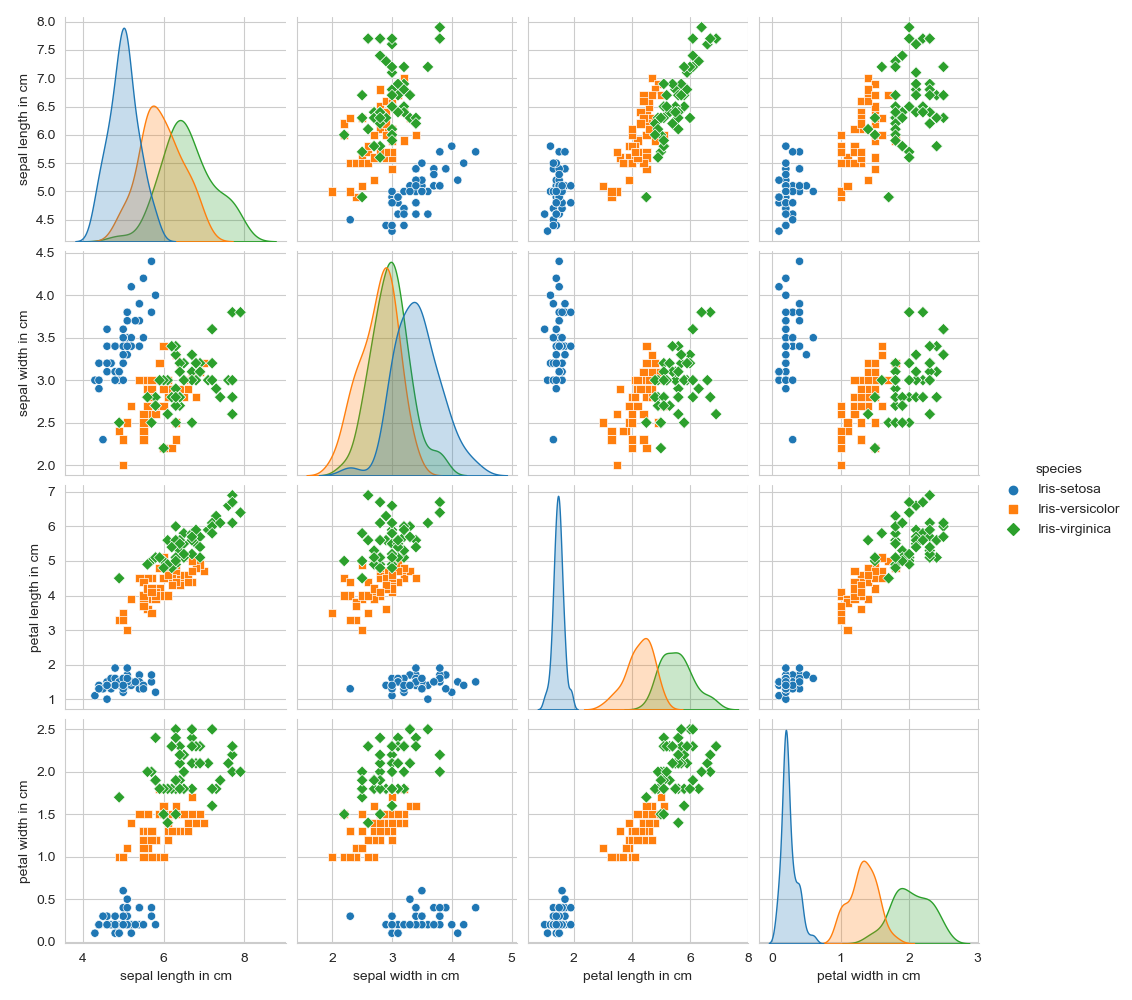
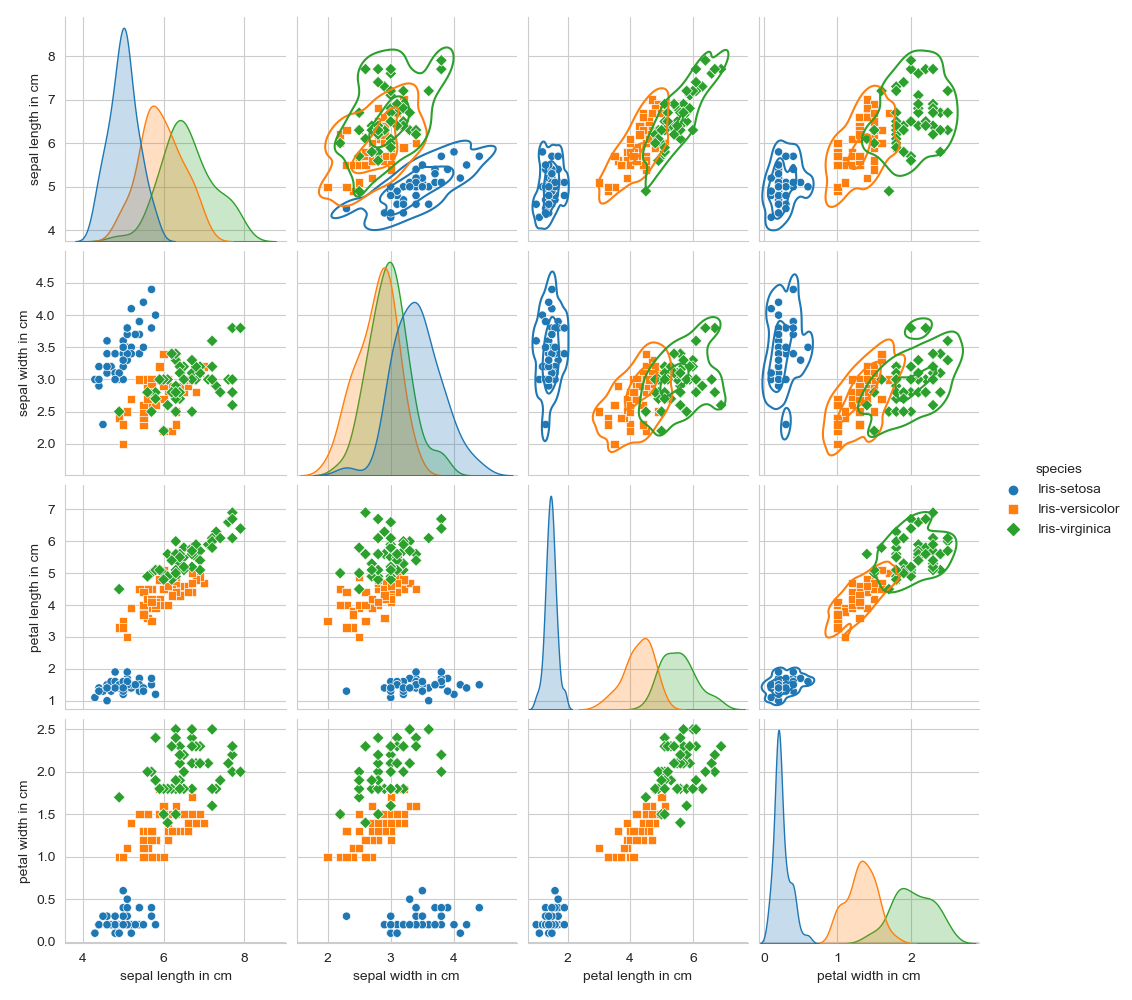
Editing pairplot to include KDE plot in the upper diagonal segments

diff --git a/analysis.py b/analysis.py
@@ -2,8 +2,8 @@
 # Author: Andrew Scott
 
 import numpy as np
-import matplotlib.pyplot as plt
 import pandas as pd
+import matplotlib.pyplot as plt
 import seaborn as sns
 
 # Loading in Fisher’s Iris data set from a .data file
@@ -93,7 +93,8 @@ plt.clf()
 # Using different markers as well as colour to make the different specieses more clear, which is important ahould someone with colourblindness find 
 # it tricky to differentiate specieses by colour alone.
 sns.set_style("whitegrid")
-sns.pairplot(iris, hue="species", markers=["o", "s", "D"])
+pair = sns.pairplot(iris, hue="species", markers=["o", "s", "D"])
+pair.map_upper(sns.kdeplot, levels=3)
 plt.savefig('Pairplot.png')
 plt.clf()
 
@@ -123,7 +124,7 @@ plt.clf()
 # Correlations
 correlations = iris.corr()
 with open("iris_summary.txt", "a") as f:
-    f.write("\t\t" + "  Variable Correlations"+ "\n") # Add a title to the output table. Tabs and spaces added to format titles similar to other tables
+    f.write("\t\t"+"  Variable Correlations"+"\n") # Add a title to the output table. Tabs and spaces added to format titles similar to other tables
     f.write(correlations.to_string() + "\n\n")
 
 corr_map = sns.heatmap(correlations, cmap="RdGy", annot=True)
@@ -131,3 +132,5 @@ corr_map = sns.heatmap(correlations, cmap="RdGy", annot=True)
 corr_map.figure.tight_layout() 
 plt.savefig('Correlation Heatmap.png')
 plt.clf()
+
+

diff --git a/README.md b/README.md
@@ -29,3 +29,6 @@ I prefer to have grids on my plot to be able to better read where a point on the
 
 
 # violin plot
+
+
+# Heatmap
